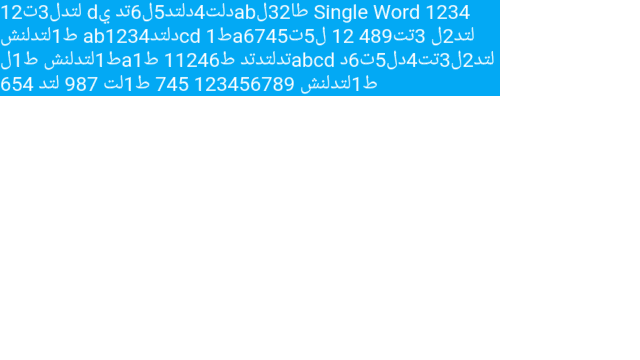
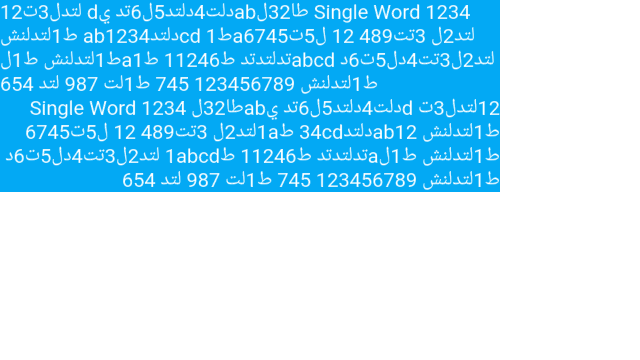
Add RTL line break test condition
b/165046947

(cherry picked from commit 928f9bd75d3c719424775e5a5cb5be9c90305a4b)

diff --git a/cobalt/layout_tests/testdata/bidi/bidi-paragraphs-should-maintain-proper-ordering-when-split-across-multiple-lines.html b/cobalt/layout_tests/testdata/bidi/bidi-paragraphs-should-maintain-proper-ordering-when-split-across-multiple-lines.html
@@ -30,8 +30,12 @@
           لتد2ل3تت4دل5ت6د ط1لتدلنش 123456789 745 ط1لت
           987 لتد 654</span>
   </div>
-</body>
-</html>
-
+  <div class="containing-block" dir="rtl">
+    <span>12لتدل3ت dدلت4دلتد5ل6تد يabطا32ل Single Word
+          1234 ط1لتدلنش ab12دلتد34cd ط1aلتد2ل 3تت489
+          12 ل5ت6745 ط1لتدلنش ط1لaتدلتدتد ط11246 ط1abcd
+          لتد2ل3تت4دل5ت6د ط1لتدلنش 123456789 745 ط1لت
+          987 لتد 654</span>
+  </div>
 </body>
 </html>
